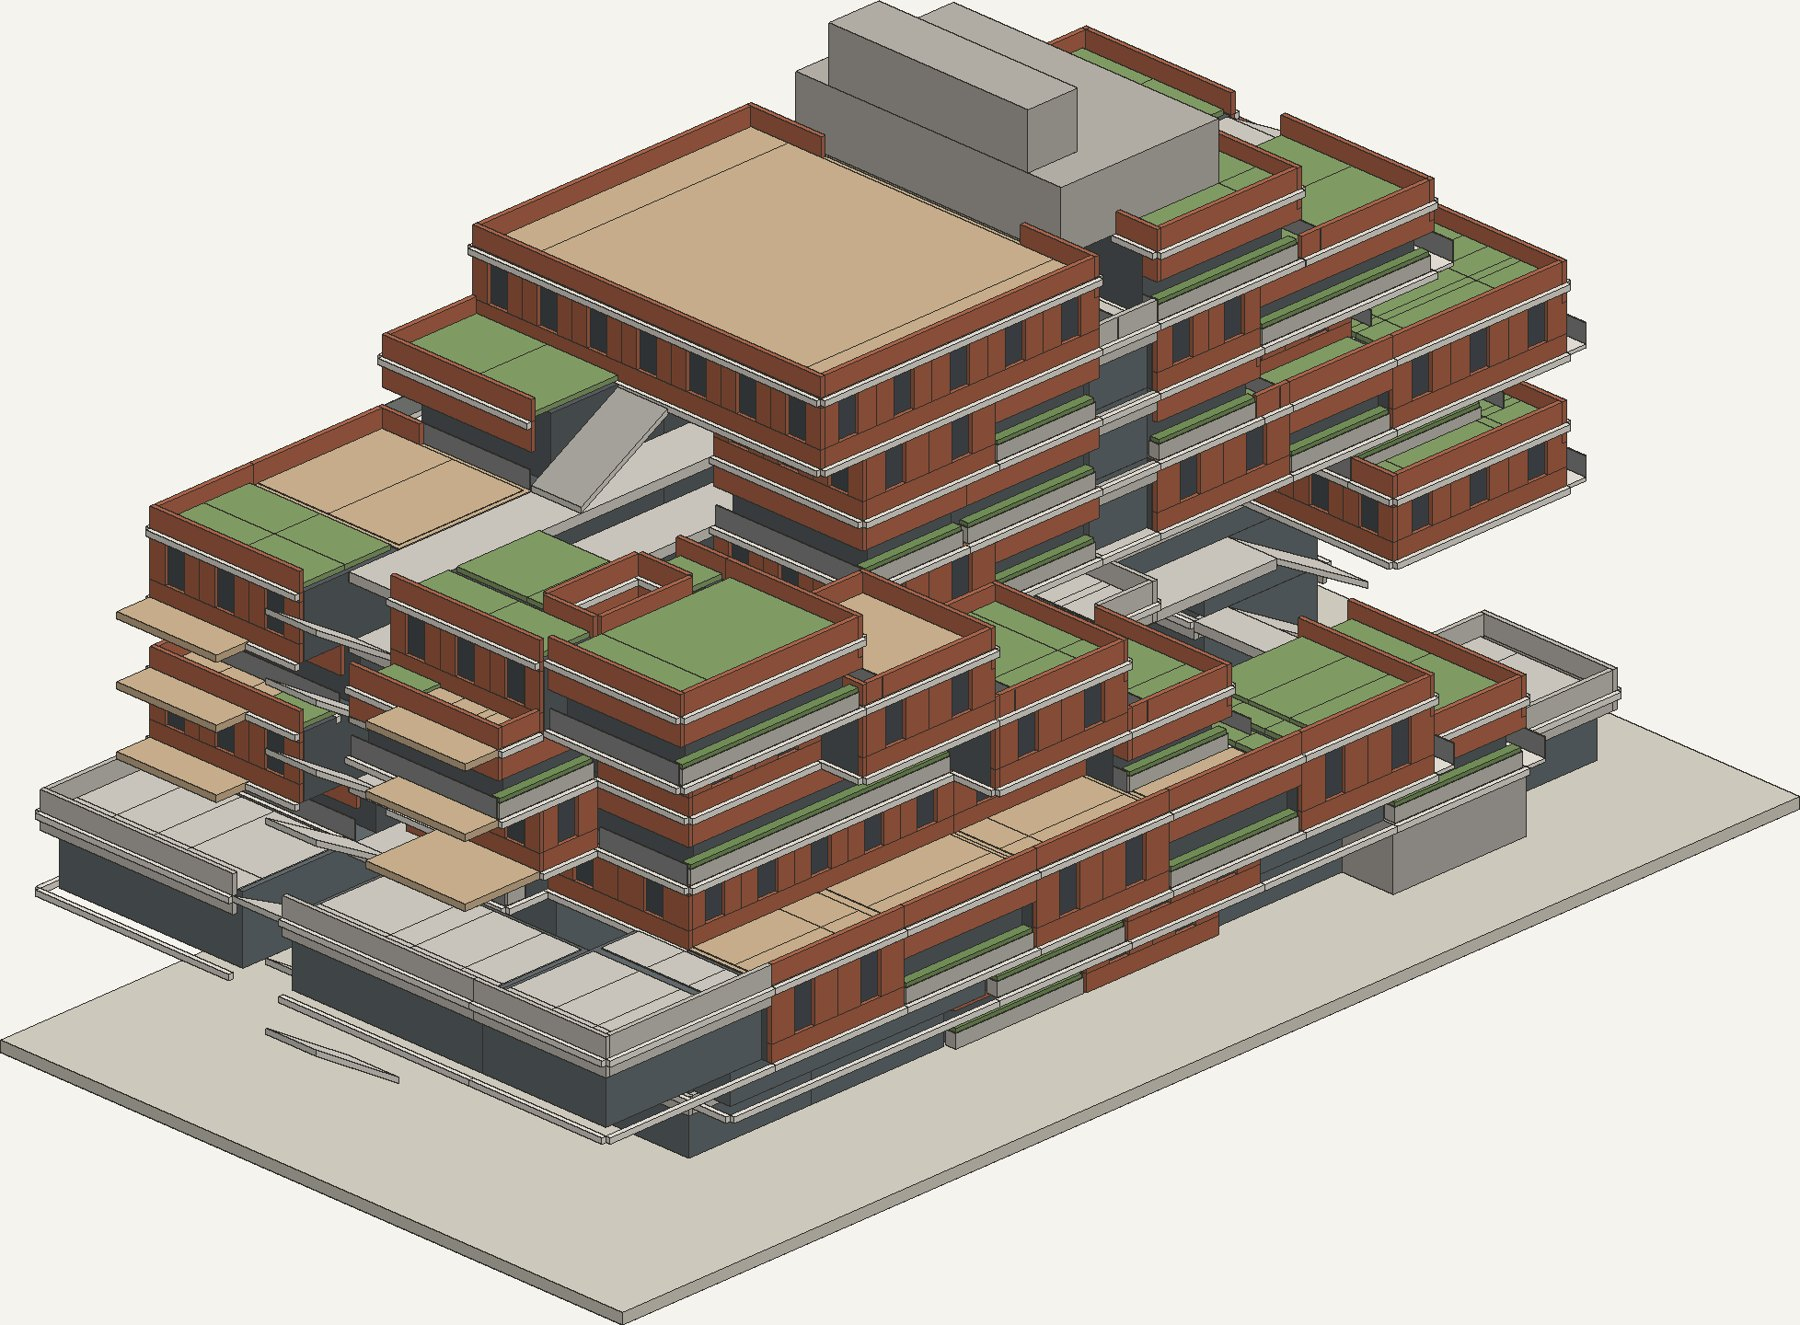
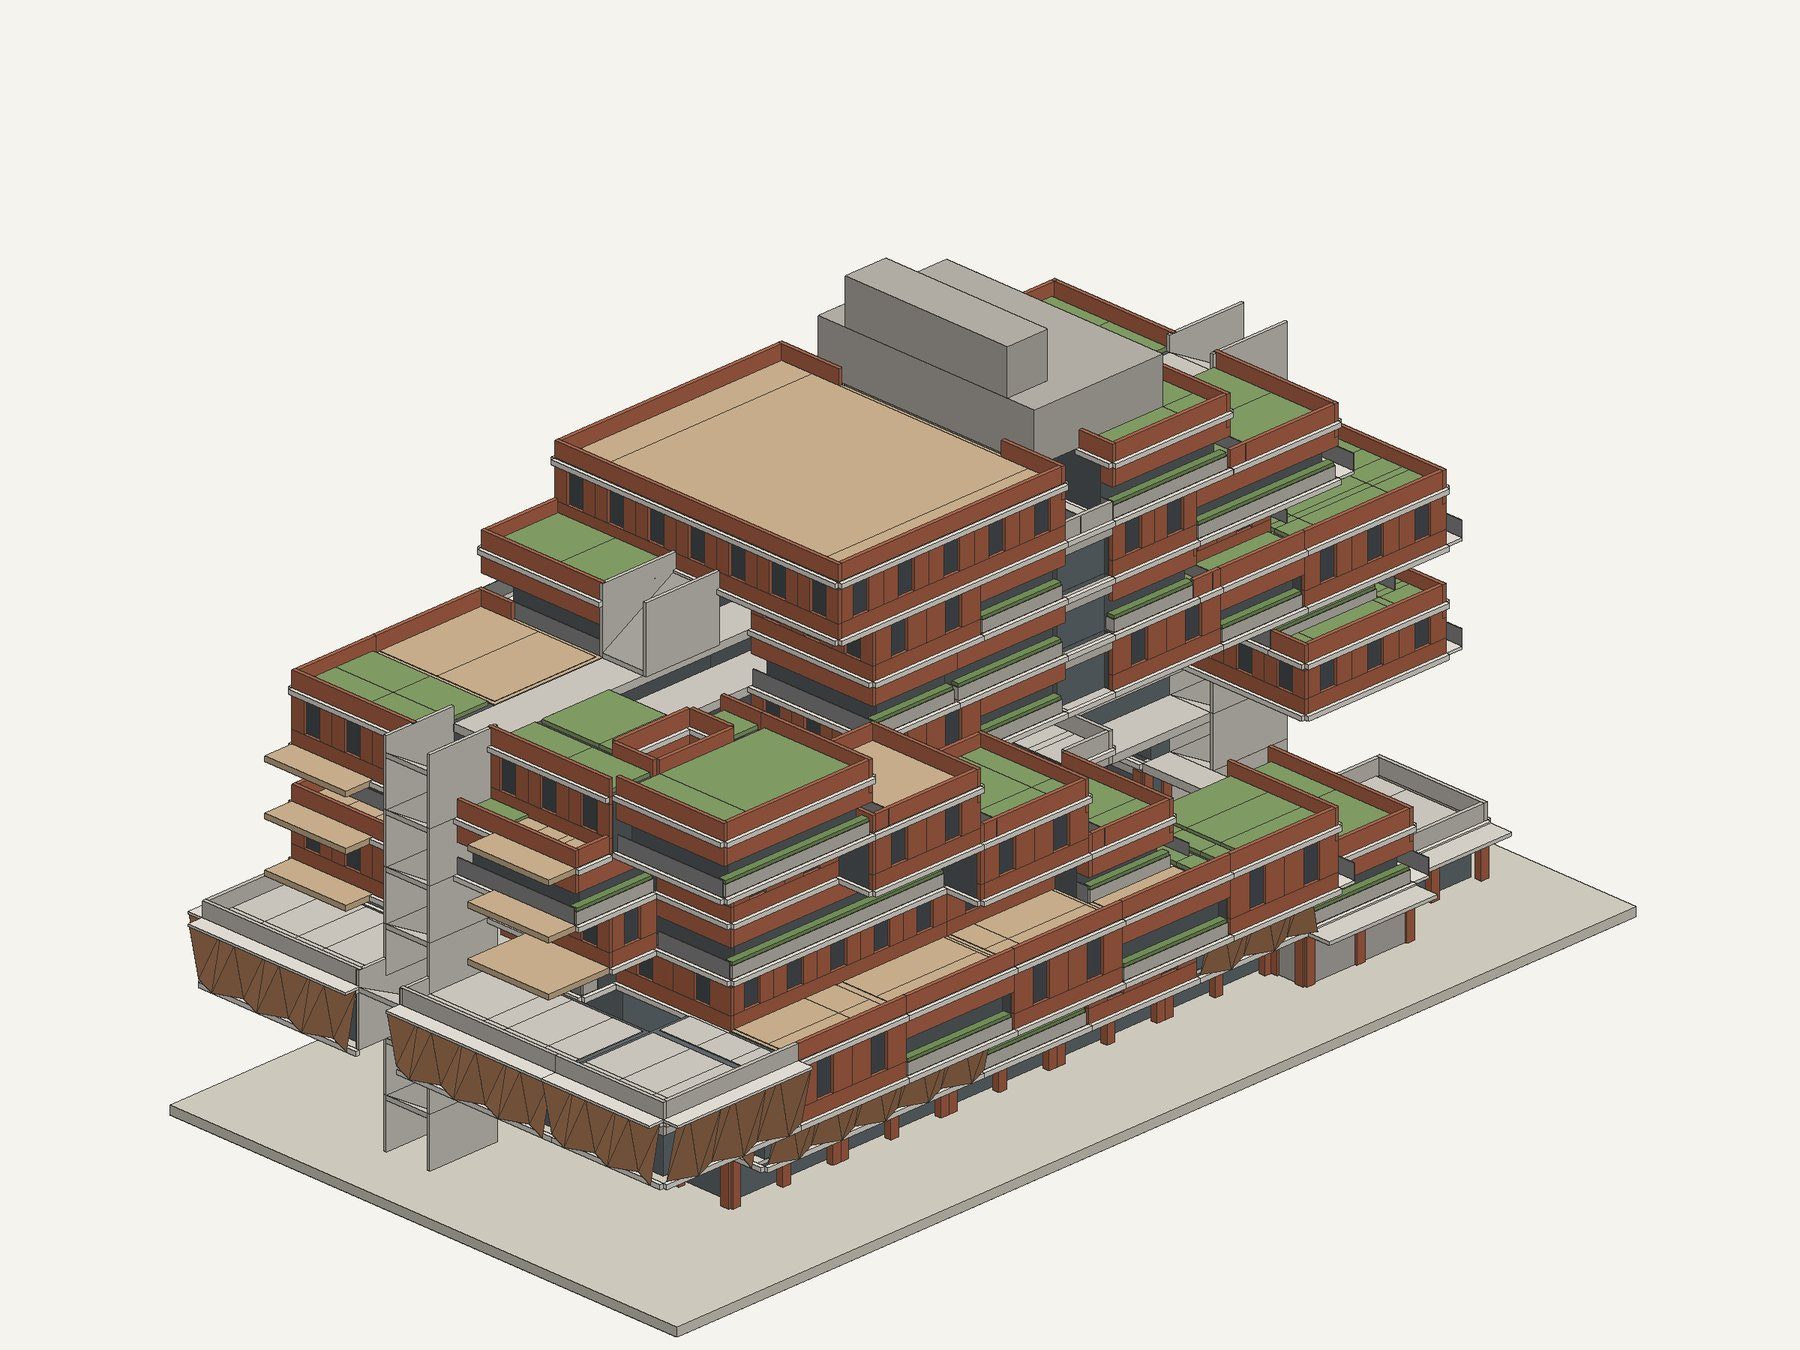
La Ola: podio (piel plegada P3, frente comercial Carrera 8), vista desde la calle
Claude-Session: https://claude.ai/code/session_01Rs9TY9ki2YSVtRsSTGuvtX

diff --git a/la-ola/index.html b/la-ola/index.html
@@ -276,13 +276,20 @@ footer{border-top:1px solid var(--rule);padding-top:16px;display:flex;flex-wrap:
 </section>
 
 <section class="sec">
-  <div class="lado"><span class="rot">La fachada</span><h2>Bandejas de ladrillo</h2><p class="nota">Cada módulo es una bandeja: banda de ladrillo arriba, vidrio retirado abajo y la cubierta libre como terraza o jardín. La mitad de los módulos son cajas de ladrillo con ventana de antepecho. Occidente lleva celosía, oriente jardinera, el norte una terraza fina hacia el río.</p></div>
+  <div class="lado"><span class="rot">La fachada</span><h2>Bandejas de ladrillo</h2><p class="nota">Cada módulo es una bandeja: banda de ladrillo arriba, vidrio retirado abajo y la cubierta libre como terraza o jardín. La mitad de los módulos son cajas de ladrillo con ventana de antepecho. Occidente lleva celosía, oriente jardinera, el norte una terraza fina hacia el río. Lo común se viste distinto: el piso de todos lleva una piel plegada de barro cocido, y el primer piso abre a la Carrera 8 con pilares de ladrillo y un alero corrido.</p></div>
   <div class="cuerpo">
     <figure class="plano"><img src="img/v4/fachada-so.jpg" alt="Axonometría desde el suroccidente: módulos de ladrillo con logias, celosías y cubiertas verdes" loading="lazy"><figcaption>Desde el suroccidente</figcaption></figure>
     <div class="galeria">
       <figure><img src="img/v4/fachada-se.jpg" alt="Axonometría desde el suroriente, hacia la calle" loading="lazy" style="aspect-ratio:auto;object-fit:contain"><figcaption>Suroriente · la calle</figcaption></figure>
       <figure><img src="img/v4/fachada-no.jpg" alt="Axonometría desde el noroccidente, hacia el río Fucha" loading="lazy" style="aspect-ratio:auto;object-fit:contain"><figcaption>Noroccidente · el río</figcaption></figure>
     </div>
+  </div>
+</section>
+
+<section class="sec">
+  <div class="lado"><span class="rot">La calle</span><h2>Desde la Carrera 8</h2><p class="nota">A la altura del peatón el edificio no es la torre de vivienda sino el podio: locales y talleres detrás de pilares de ladrillo cada cuatro metros, un alero para el andén y los vendedores, y arriba el pliegue del piso común, que marca dónde vive la cooperativa.</p></div>
+  <div class="cuerpo">
+    <figure class="plano"><img src="img/v4/calle-carrera8.jpg" alt="Vista peatonal desde la Carrera 8: frente comercial con pilares de ladrillo y alero, piel plegada del piso común y bandejas de vivienda arriba" loading="lazy"><figcaption>Andén oriental de la Carrera 8, mirando al norte · estudio de volumen</figcaption></figure>
   </div>
 </section>
 
